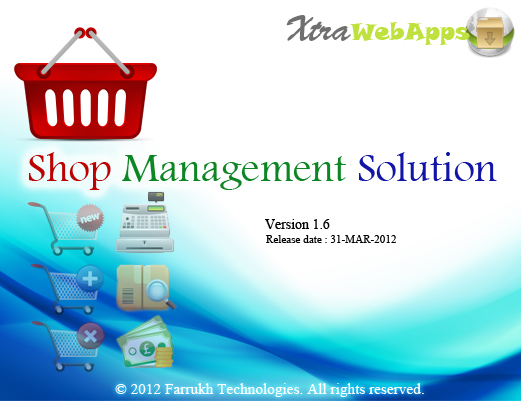
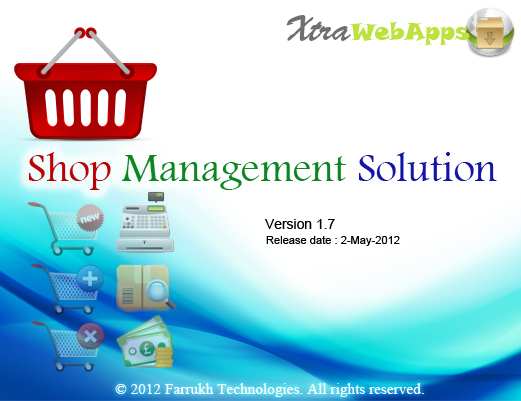
Feature 3515045- Fixed printing bug against Save and Print Button, updated images for version 1.7.0.

Changed region(s): [[0.4914, 0.5387, 0.7678, 0.6284]]

diff --git a/Shop Management Solution/frmSaleItem.cs b/Shop Management Solution/frmSaleItem.cs
@@ -690,14 +690,18 @@ namespace Shop_Management_Solution
                 List<Sale> saleItems = this.getListofItemsToBeAdded();
                 if (saleItems.Count >= 1)
                 {
-                 
-                        String saleDate = dateOfSale.Text;
-                        invoiceID = ShopDAL.SaleItems(saleDate, saleItems);
-
                          prnDialog.Document = this.prnDocument;
-                         prnDialog.ShowDialog();
-                         //prnPreview.Document = this.prnDocument;
-                         //prnPreview.ShowDialog();
+                         DialogResult result = prnDialog.ShowDialog();
+                         if (result == DialogResult.OK)
+                         {
+                             String saleDate = dateOfSale.Text;
+                             invoiceID = ShopDAL.SaleItems(saleDate, saleItems);
+
+                             prnDialog.Document.Print();
+
+                             this.Close();
+                             MessageBox.Show(this, "Item sold successfully. Collect printout from printer.", "Sale Item(s)", MessageBoxButtons.OK, MessageBoxIcon.Information);
+                         }
 
                 }
                 else

diff --git a/Shop Management Solution/lib/dal/UoMDAL.cs b/Shop Management Solution/lib/dal/UoMDAL.cs
@@ -17,13 +17,13 @@ namespace Shop_Management_Solution.lib.dal
             List<UoM> uoms = new List<UoM>();
 
             OleDbConnection connectionString = new OleDbConnection(DBUtil.GetConnectionString());
-            string query = "SELECT UoM.ID, UoM.UoM_Name FROM UoM";
+            string query = "SELECT ID,UoM_Name FROM Uom";
             OleDbDataAdapter DataAdapter = new OleDbDataAdapter(query, connectionString);
             DataSet ds = new DataSet();
 
             try
             {
-                DataAdapter.Fill(ds, "UoM");
+                DataAdapter.Fill(ds, "Uom");
             }
             catch (Exception ex)
             {
@@ -48,7 +48,7 @@ namespace Shop_Management_Solution.lib.dal
         public static DataSet GetUoMsDataSet()
         {
             OleDbConnection connectionString = new OleDbConnection(DBUtil.GetConnectionString());
-            string query = "SELECT UoM.ID, UoM.UoM_Name FROM UoM";
+            string query = "SELECT ID, UoM_Name FROM Uom";
             OleDbDataAdapter DataAdapter = new OleDbDataAdapter(query, connectionString);
             DataSet ds = new DataSet();
 

diff --git a/Shop Management Solution/lib/dal/ShopDAL.cs b/Shop Management Solution/lib/dal/ShopDAL.cs
@@ -95,8 +95,8 @@ namespace Shop_Management_Solution.lib.dal
         {
             string uom = null;
             OleDbConnection connectionString = new OleDbConnection(DBUtil.GetConnectionString());
-            string query =  "SELECT UoM.UoM_Name FROM ItemType " + 
-                            "LEFT JOIN UoM ON (ItemType.UoM_ID = UoM.ID ) " +
+            string query =  "SELECT Uom.UoM_Name FROM ItemType " + 
+                            "LEFT JOIN Uom ON ItemType.UoM_ID = Uom.ID  " +
                             "WHERE Type_ID = " + typeId;
 
             OleDbDataAdapter DataAdapter = new OleDbDataAdapter(query, connectionString);

diff --git a/Shop Management Solution/AboutBox.Designer.cs b/Shop Management Solution/AboutBox.Designer.cs
@@ -97,7 +97,7 @@
             this.labelVersion.Name = "labelVersion";
             this.labelVersion.Size = new System.Drawing.Size(385, 17);
             this.labelVersion.TabIndex = 0;
-            this.labelVersion.Text = "Version: 1.6";
+            this.labelVersion.Text = "Version: 1.7";
             this.labelVersion.TextAlign = System.Drawing.ContentAlignment.MiddleLeft;
             // 
             // labelCopyright

diff --git a/Shop Management Solution/frmMainMenu.cs b/Shop Management Solution/frmMainMenu.cs
@@ -252,8 +252,8 @@ namespace Shop_Management_Solution
 
         private void contractorsToolStripMenuItem_Click(object sender, EventArgs e)
         {
-            frmContractorManagement cm = new frmContractorManagement();
-            cm.ShowDialog();
+            //frmContractorManagement cm = new frmContractorManagement();
+            //cm.ShowDialog();
         }
 
     }
